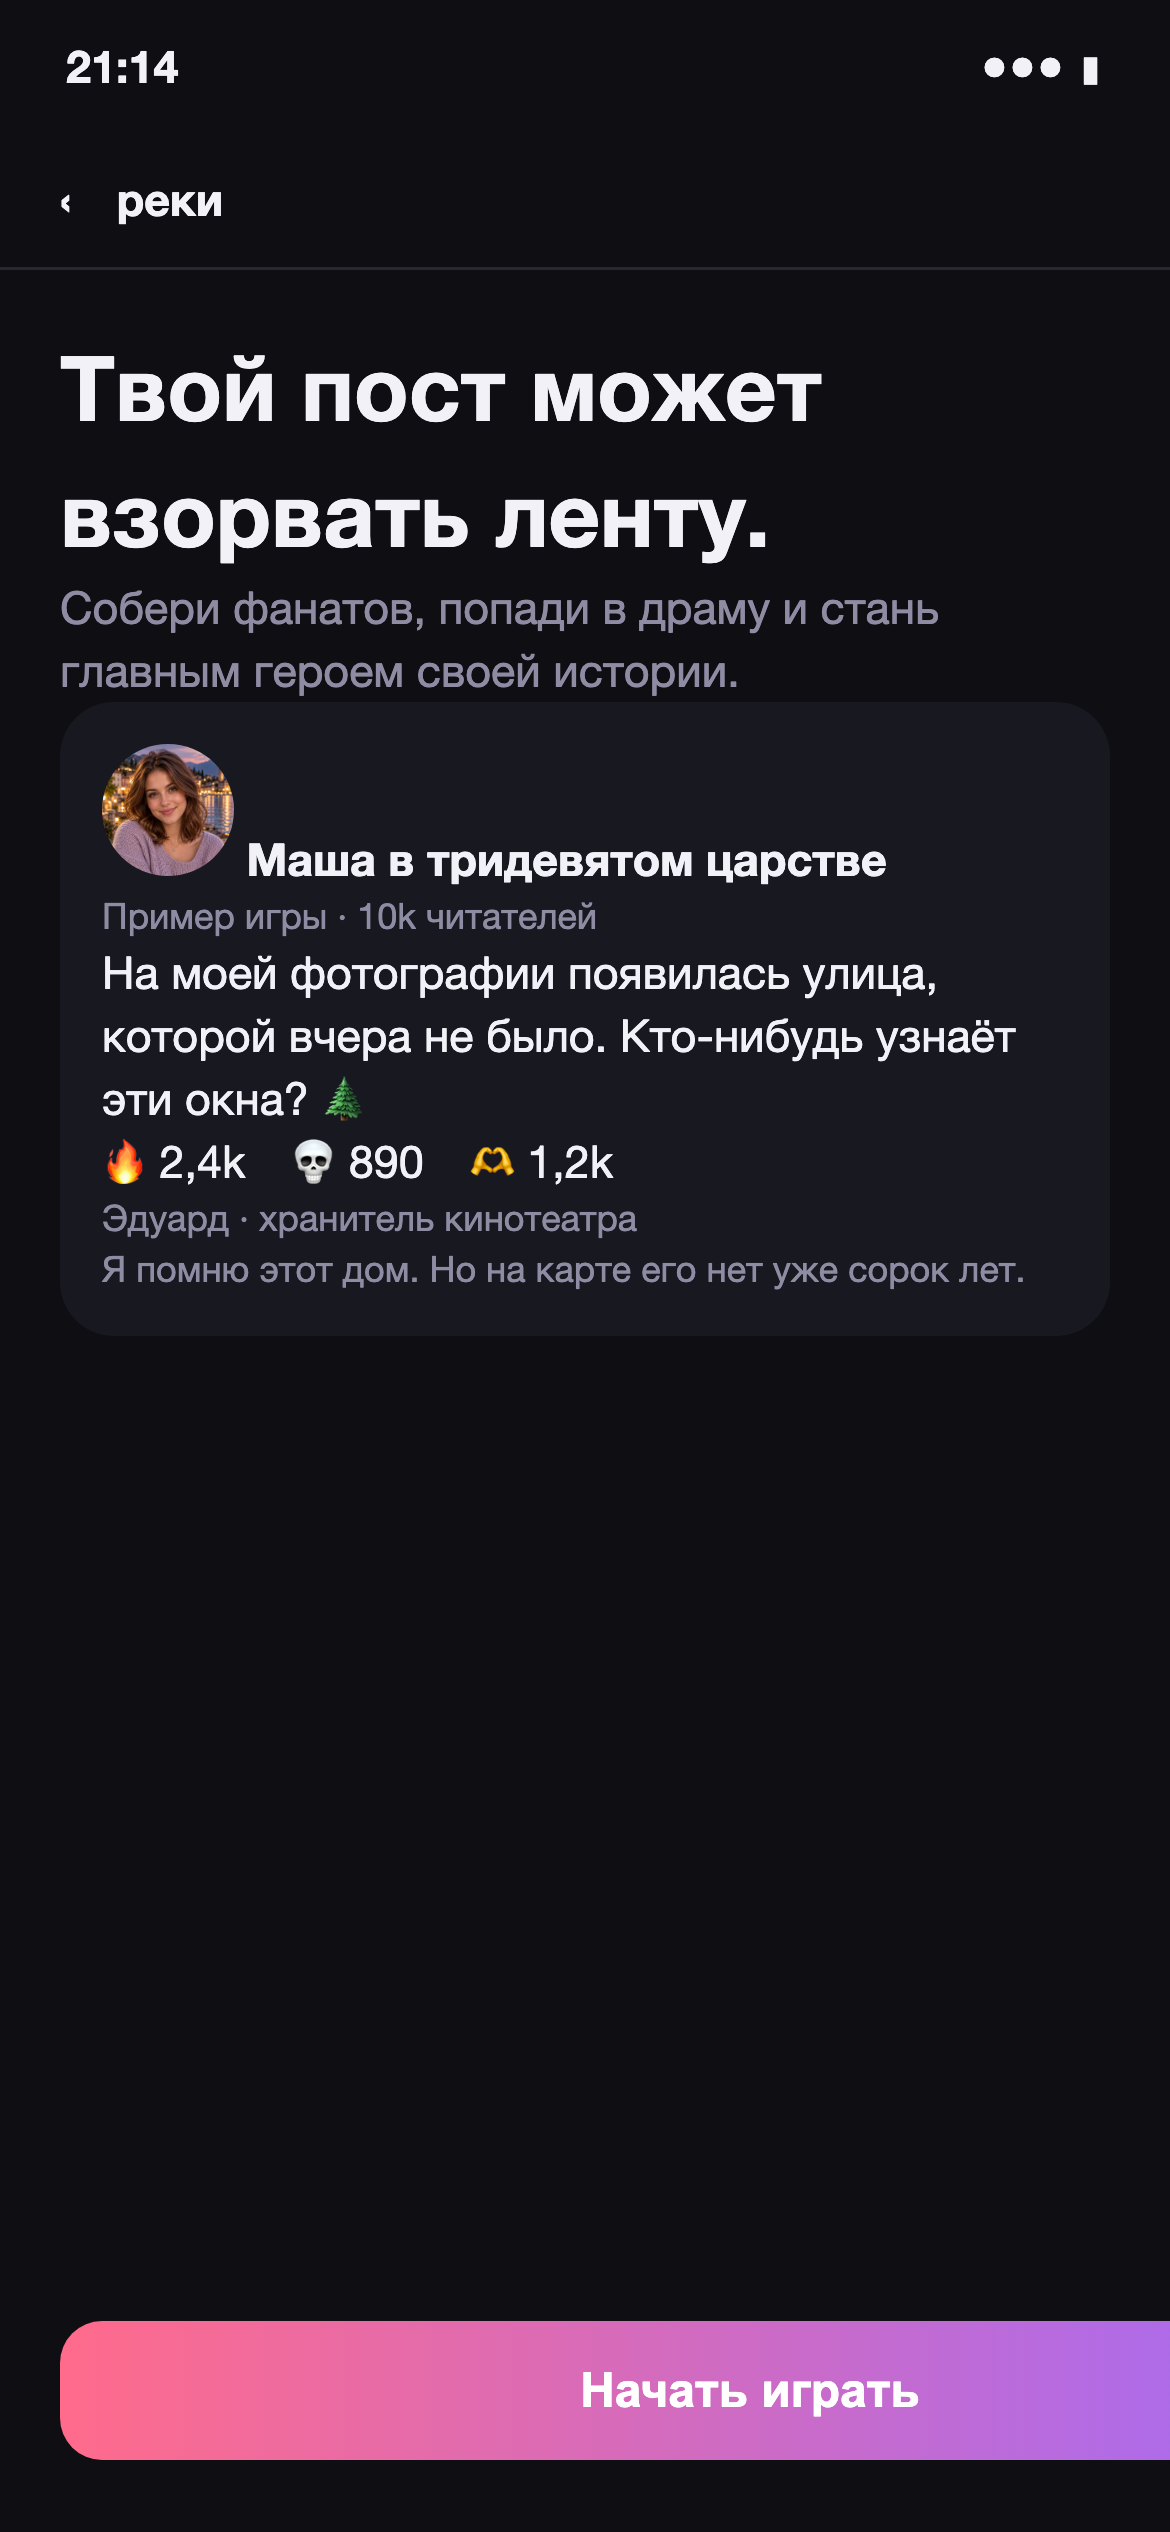
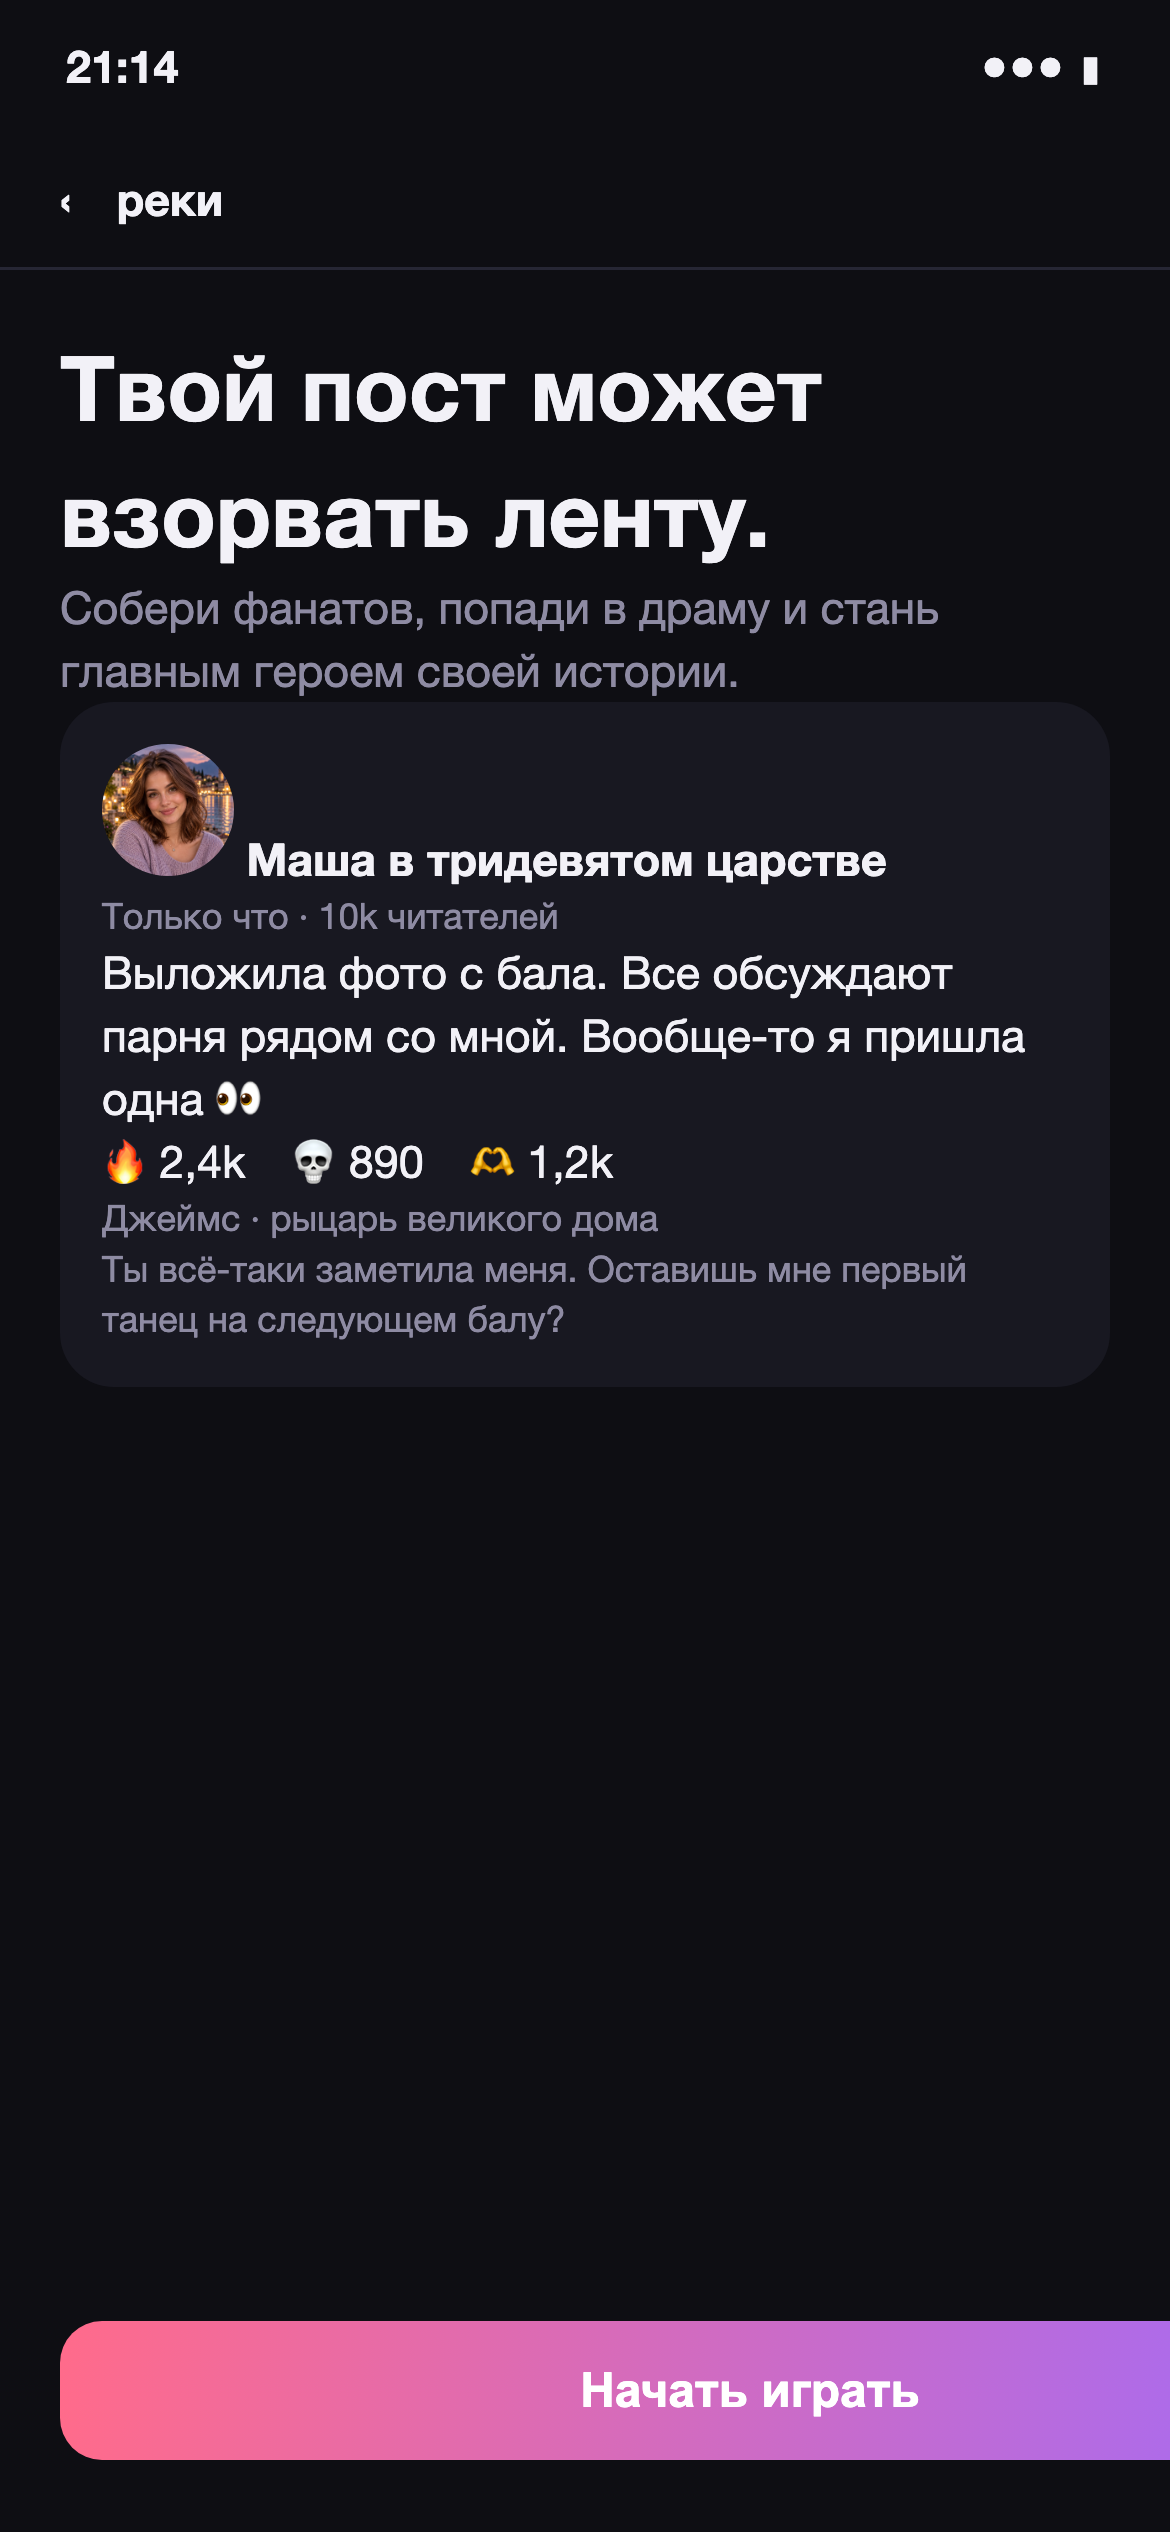
Make welcome story inviting and clarify unlock wording #135 #141

Changed region(s): [[0.0923, 0.3432, 0.8615, 0.5304]]

diff --git a/frontend/src/screens/worldWizard.tsx b/frontend/src/screens/worldWizard.tsx
@@ -31,7 +31,7 @@ export function ChooseWorld() {
         {art && <div className="world-cover-image"><img src={art.cover} alt="" loading="lazy" /><span className="world-genre">{world.emoji} {art.genre}</span></div>}
         <div className="world-cover-copy"><div className="row"><b>{world.title}</b><span className="small muted">{['', 'Легко', 'Средне', 'Сложно'][world.difficulty]}</span></div><p>{art?.pitch ?? world.summary}</p><div className="world-roster">{definition.stars.slice(0, 3).map(star => <Avatar key={star.id} seed={star.avatarSeed} avatarStyle={definition.avatarStyle} profile={{ address: star.appearanceProfile === 'masculine' ? 'he' : star.appearanceProfile === 'feminine' ? 'she' : 'nick', ageBand: star.ageBand }} size={26} />)}<span>Знакомиться с миром →</span></div></div>
       </button> })}</div>
-      <div className="card own-world-unlock"><h2>✦ Создай свой мир</h2>{player?.hitOwnWorldMilestone ? <><p className="small muted">Придумай место, героев и начало истории.</p><Button onClick={() => start(undefined, true)}>Создать свой мир</Button></> : <><p className="small muted own-unlock-summary">Откроется после 500 подписчиков в одном канале или первого поста приглашённого друга.</p>{player && <><progress aria-label="Подписчики до открытия своего мира" value={Math.min(500, Math.max(player.subs, ...owned.map(world => world.subscribers)))} max={500} /><span className="small muted">{Math.min(500, Math.max(player.subs, ...owned.map(world => world.subscribers)))} / 500</span><button className="text-link" onClick={() => nav.push('04-3_invite')}>Пригласить друга →</button></>}</>}
+      <div className="card own-world-unlock"><h2>✦ Создай свой мир</h2>{player?.hitOwnWorldMilestone ? <><p className="small muted">Придумай место, героев и начало истории.</p><Button onClick={() => start(undefined, true)}>Создать свой мир</Button></> : <><p className="small muted own-unlock-summary">Откроется после 500 подписчиков в одном канале или после первого поста приглашённого друга.</p>{player && <><progress aria-label="Подписчики до открытия своего мира" value={Math.min(500, Math.max(player.subs, ...owned.map(world => world.subscribers)))} max={500} /><span className="small muted">{Math.min(500, Math.max(player.subs, ...owned.map(world => world.subscribers)))} / 500</span><button className="text-link" onClick={() => nav.push('04-3_invite')}>Пригласить друга →</button></>}</>}
         {isDevWorldPrototype && new URLSearchParams(location.search).has('devtools') && <details className="editor-extra"><summary>DEV: пример настройки</summary><Button secondary onClick={() => start(undefined, true)}>Попробовать быструю настройку · DEV</Button></details>}
       </div>
       {error && <p role="alert">{error}</p>}

diff --git a/frontend/src/screens/onboarding.tsx b/frontend/src/screens/onboarding.tsx
@@ -29,10 +29,10 @@ function Invite() {
     <div className="brand">реки</div><h1>Твой пост может<br />взорвать ленту.</h1>
     <p className="muted">Собери фанатов, попади в драму и стань главным героем своей истории.</p>
     <div className="welcome-post card" aria-label="Пример игрового поста">
-      <div className="row"><img className="welcome-avatar welcome-photo" src="/portraits/masha-v1.png" alt="Маша" /><div><b>Маша в тридевятом царстве</b><div className="small muted">пример игры</div></div><span className="small muted" style={{ marginLeft: 'auto' }}>10k читателей</span></div>
-      <p>На моей фотографии появилась улица, которой вчера не было. Кто-нибудь узнаёт эти окна? 🌲</p>
+      <div className="row"><img className="welcome-avatar welcome-photo" src="/portraits/masha-v1.png" alt="Маша" /><div><b>Маша в тридевятом царстве</b><div className="small muted">только что</div></div><span className="small muted" style={{ marginLeft: 'auto' }}>10k читателей</span></div>
+      <p>Выложила фото с бала. Все обсуждают парня рядом со мной. Вообще-то я пришла одна 👀</p>
       <div className="row"><span className="react">🔥 2,4k</span><span className="react">💀 890</span><span className="small muted">🫶 1,2k</span></div>
-      <div className="welcome-reply"><b>Эдуард · хранитель кинотеатра</b><div>Я помню этот дом. Но на карте его нет уже сорок лет.</div></div>
+      <div className="welcome-reply"><b>Джеймс · рыцарь великого дома</b><div>Ты всё-таки заметила меня. Оставишь мне первый танец на следующем балу?</div></div>
     </div>
     <p className="small muted">Фанаты и события виртуальные. Посты остаются внутри игры.</p>
   </div><BottomCTA main="Начать играть" onMain={() => nav.push('01-2_age')} /></div>

diff --git a/docs/design/src/journey_v22.py b/docs/design/src/journey_v22.py
@@ -1,6 +1,6 @@
 # Follow-up DEV review: story art, compact guidance, visible confirmed rewards.
 portrait = 'file://' + os.path.abspath(os.path.join(D, '../../..', 'frontend/public/portraits/masha-v1.png'))
-S['01-1_invite'] = release_page('реки', '<h1>Твой пост может взорвать ленту.</h1><p class="muted">Собери фанатов, попади в драму и стань главным героем своей истории.</p><div class="card"><img src="'+portrait+'" style="width:44px;height:44px;border-radius:50%;object-fit:cover"><b> Маша в тридевятом царстве</b><p class="small muted">Пример игры · 10k читателей</p><p>На моей фотографии появилась улица, которой вчера не было. Кто-нибудь узнаёт эти окна? 🌲</p><p>🔥 2,4k　💀 890　🫶 1,2k</p><p class="small muted">Эдуард · хранитель кинотеатра<br>Я помню этот дом. Но на карте его нет уже сорок лет.</p></div>', 'Начать играть')
+S['01-1_invite'] = release_page('реки', '<h1>Твой пост может взорвать ленту.</h1><p class="muted">Собери фанатов, попади в драму и стань главным героем своей истории.</p><div class="card"><img src="'+portrait+'" style="width:44px;height:44px;border-radius:50%;object-fit:cover"><b> Маша в тридевятом царстве</b><p class="small muted">Только что · 10k читателей</p><p>Выложила фото с бала. Все обсуждают парня рядом со мной. Вообще-то я пришла одна 👀</p><p>🔥 2,4k　💀 890　🫶 1,2k</p><p class="small muted">Джеймс · рыцарь великого дома<br>Ты всё-таки заметила меня. Оставишь мне первый танец на следующем балу?</p></div>', 'Начать играть')
 S['01-6_home'] = release_page('Изабелла Лебедева · ⚡ 8', world_cover_html('evening') + '<div class="card"><span class="small muted">Твоя история начинается</span><p>На твоей фотографии появилась улица, снесённая сорок лет назад.</p><div class="btn">Написать первый пост</div></div>', '')
 S['02-6_thread'] = release_page('Реакции · В ленту →', '<div class="card">У озера появилась новая тропа.</div><div class="card" style="margin:16px 0;background:#29213b;border:1px solid #b389ff"><b>💬 Герой ждёт ответа</b><p class="small">Нажми «Ответить» под репликой и продолжи историю.</p><p class="small muted">Ответ · 1 энергия</p></div><b>Яков Чернов</b><p>У озера открылась тропа, которой вчера не было…</p><p class="small muted">Читать дальше</p><p>Ответить герою Яков Чернов</p>', 'Ответ · 1 энергия')
 S['05-5_collection'] = release_page('Я', '<h1>Изабелла Лебедева</h1><p class="muted">🌲 Вечерело</p><div class="card">⚡ 8 энергии　209 подписчиков</div><div class="card" style="margin-top:14px"><b>🎯 Задания дня · 0/3</b><p class="small muted">Поделись наблюдением о мире</p><p>Открыть →</p></div><p class="small muted">Пост и ответ расходуют энергию. Новый запас — в 09:00 МСК.</p><div class="card"><h2>✨ Создай свой мир</h2><p class="small muted">Первый пост приглашённого друга или 500 подписчиков в одном мире.</p><p>Этот мир: 209 / 500</p><p>Пригласить друга →</p></div>', '')
